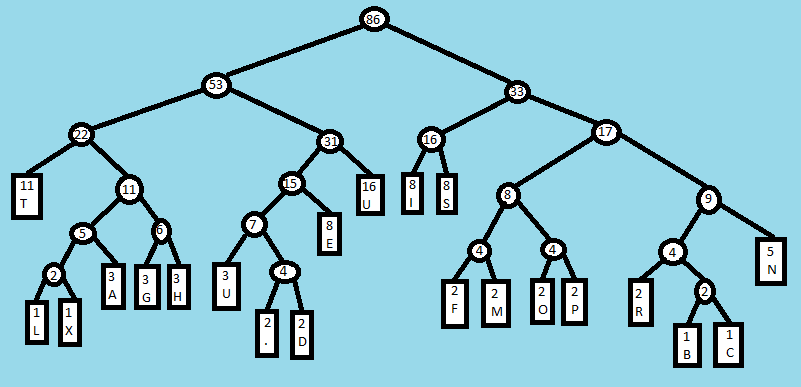
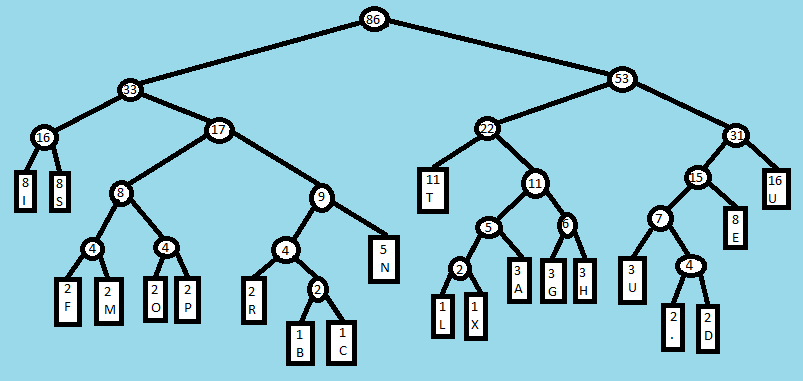
root: correct the tree drawing; add another with paths outlined

diff --git a/.docs/algorithm.md b/.docs/algorithm.md
@@ -470,6 +470,9 @@ frequencies list has [1] elements
 Below is an (horrifying) artist's rendition of the resulting Huffman tree:
 ![tree](why-i-didnt-go-to-art-school.png)
 
+For an example how we get the codes for `p` (`01011`) and `d` (`110011`):
+![tree-with-paths](with-paths.png)
+
 ### Encoding Map
 From the tree we can generate the following codes for each input character:
 ```
